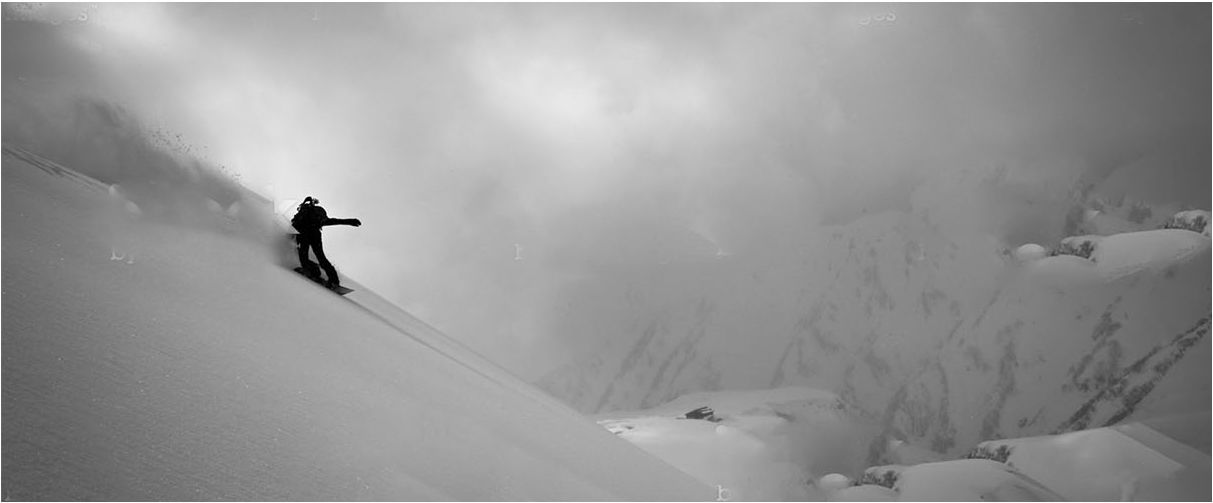
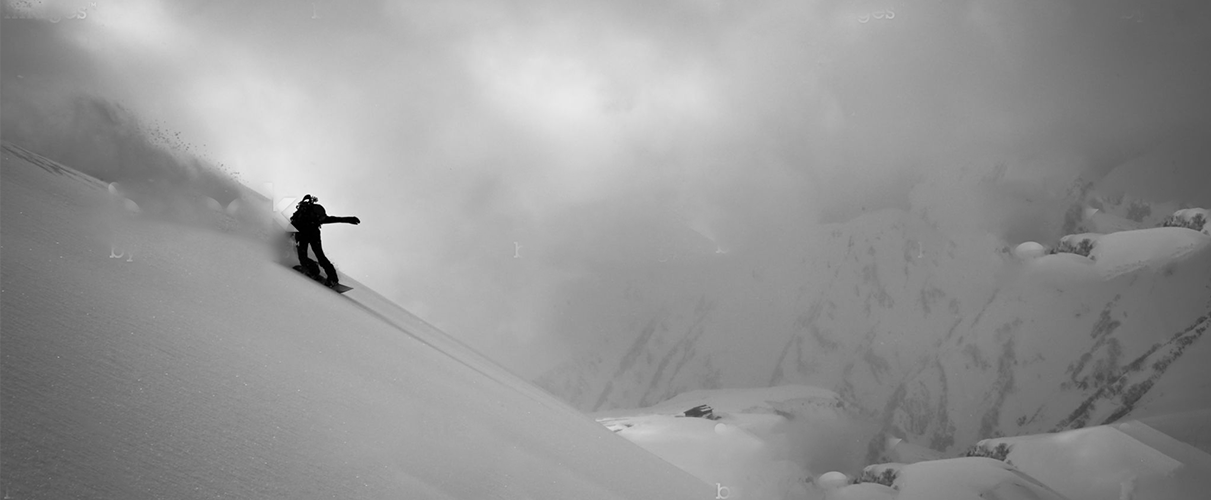
fix image

diff --git a/bootstrap.html b/bootstrap.html
@@ -47,10 +47,10 @@
 		    </ul>
 		  </div>
 		</nav>
-		<div class="banner">
-			<img src="images/banner.png" class="img-fluid">
-			<div class="banner__content text-center">
-				<p class="banner__content__title">WHY JAPAN IS WINTER ?</p>
+		<div class="banner w-100">
+			<!-- <img src="images/banner.png" class="img-fluid"> -->
+			<div class="banner__content text-center w-100">
+				<p class="banner__content__title">WHY JAPAN IN WINTER ?</p>
 				<div class="d-flex justify-content-center">
 					<button class="banner__button" onclick="openColorBox()"><img src="images/icon_play.png" class="banner__content__img"></button>
 				</div>
@@ -61,12 +61,12 @@
 				<nav aria-label="breadcrumb">
 				  <ol class="breadcrumb bg-white">
 				    <li class="breadcrumb-item"><a class="text-muted" href="#">Top</a></li>
-				    <li class="breadcrumb-item text-muted breadcrumb-item__content" aria-current="page">Why Is Japan Winter</li>
+				    <li class="breadcrumb-item text-muted breadcrumb-item__content" aria-current="page">Why Japan In Winter</li>
 				  </ol>
 				</nav>
 			</div>
 			<div class="row">
-				<div class="col-lg-8 col-md-8 mx-auto mt-4">
+				<div class="col-lg-9 col-md-9 mx-auto mt-4">
 					<p class="content__title content__title--intro">
 						Lorem ipsum dolor sit amet, consectetur adipisicing elit, sed do eiusmod tempor incididunt ut labore et dolore magna aliqua. Ut enim ad minim veniam, quis nostrud exercitation ullamco laboris nisi ut aliquip ex ea commodo consequat. Duis aute irure dolor in reprehenderit in voluptate velit esse cillum dolore eu fugiat nulla pariatur. Excepteur sint occaecat cupidatat non proident, sunt in culpa qui officia
 					</p>
@@ -84,12 +84,12 @@
 				</div>
 			</div>
 		</div>
-		<div class="w-100 mt-5">
-			<img src="images/content_image_1.png" width="100%" class="img-fluid">
+		<div class="w-100 mt-5 content__bg content__bg--1">
+			<!-- <img src="images/content_image_1.png" width="100%" class="img-fluid"> -->
 		</div>
 		<div class="container">
 			<div class="row">
-				<div class="col-lg-8 col-md-8 mx-auto mt-5">
+				<div class="col-lg-9 col-md-9 mx-auto mt-5">
 					<p class="text-muted mt-4">
 						Lorem ipsum dolor sit amet, consectetur adipisicing elit, sed do eiusmod tempor incididunt ut labore et dolore magna aliqua. Ut enim ad minim veniam, quis nostrud exercitation ullamco laboris nisi ut aliquip ex ea commodo consequat.
 					</p>
@@ -102,18 +102,14 @@
 		<div class="w-100 mt-5">
 			<div id="demo" class="carousel slide" data-ride="carousel" data-interval="3000">
 			  <div class="carousel-inner">
-			    <div class="carousel-item active">
-			      <img src="images/content_image_3.png" width="100%">  
-			    </div>
-			    <div class="carousel-item">
-			      <img src="images/content_image_4.png" width="100%">
-			    </div>
+			    <div class="carousel-item active content__bg content__bg--2"></div>
+			    <div class="carousel-item content__bg content__bg--3"></div>
 			  </div>
 			</div>
 		</div>
 		<div class="container">
 			<div class="row">
-				<div class="col-lg-8 col-md-8 mx-auto mt-5">
+				<div class="col-lg-9 col-md-9 mx-auto mt-5">
 					<p class="text-muted mt-4">
 						Lorem ipsum dolor sit amet, consectetur adipisicing elit, sed do eiusmod tempor incididunt ut labore et dolore magna aliqua. Ut enim ad minim veniam, quis nostrud exercitation ullamco laboris nisi ut aliquip ex ea commodo consequat.
 					</p>
@@ -123,12 +119,11 @@
 				</div>
 			</div>
 		</div>
-		<div class="w-100 mt-5">
-			<img src="images/content_image_2.png" width="100%" class="img-fluid">
+		<div class="w-100 mt-5 content__bg content__bg--4">
 		</div>
 		<div class="container">
 			<div class="row">
-				<div class="col-lg-8 col-md-8 mx-auto mt-5">
+				<div class="col-lg-9 col-md-9 mx-auto mt-5">
 					<p class="text-muted mt-4">
 						Lorem ipsum dolor sit amet, consectetur adipisicing elit, sed do eiusmod tempor incididunt ut labore et dolore magna aliqua. Ut enim ad minim veniam, quis nostrud exercitation ullamco laboris nisi ut aliquip ex ea commodo consequat.
 					</p>
@@ -146,7 +141,7 @@
 				<div class="col-lg-2 col-md-2 col-12 text-md-left text-lg-left text-center align-self-center">
 					<img src="images/logo_footer.png" alt="">
 				</div>
-				<div class="col-lg-8 col-md-8 col-12 align-self-center d-flex justify-content-center pt-4 pb-4">
+				<div class="col-lg-8 col-md-8 col-12 align-self-center d-flex justify-content-center pt-5 pb-5">
 					<a class="btn footer__link" href="#">Privacy Policy</a>
 					<a class="btn footer__link" href="#">Cookie Policy</a>
 					<a class="btn footer__link" href="#">Terms Of Use</a>
@@ -160,7 +155,7 @@
 				</div>
 			</div>
 			<div class="row footer--below">
-				<div class="col-12 text-center align-self-center pb-4 pt-4">
+				<div class="col-12 text-center align-self-center pb-5 pt-5">
 					<p class="footer__link">Copyright &#9400; Japan National Tourism Organization. All Rights Reserved.</p>
 				</div>
 			</div>

diff --git a/mystyle.css b/mystyle.css
@@ -4,11 +4,17 @@ body {
 }
 .banner {
 	position: relative;
+	background-image: url("images/banner.png");
+  	height: 250px;
+  	-webkit-background-size: cover;
+    -moz-background-size: cover;
+    background-size: 100% 100%;
+    background-position: center;
 }
 
 .banner__content {
 	position: absolute;
-	top: 45%;
+	top: 39%;
 	left: 50%;
 	transform: translateY(-50%);
 	transform: translateX(-50%);
@@ -23,8 +29,33 @@ body {
 	content: ">" !important;
 }
 
-.test: {
+.test {
 	color: #3c4d69;
+}
+
+.content__bg {
+	height: 200px;
+	-webkit-background-size: cover;
+    -moz-background-size: cover;
+    background-size: cover;
+    background-position: center;
+}
+
+.content__bg.content__bg--1 {
+	background-image: url("images/content_image_1.png");
+
+}
+
+.content__bg.content__bg--2 {
+	background-image: url("images/content_image_2.png");
+}
+
+.content__bg.content__bg--3 {
+	background-image: url("images/content_image_3.png");
+}
+
+.content__bg.content__bg--4 {
+	background-image: url("images/content_image_4.png");
 }
 
 .content__title {
@@ -61,10 +92,10 @@ body {
 	background: black;
 }
 
-  .carousel-inner img {
-    width: 100%;
-    height: 100%;
-  }
+.carousel-inner img {
+	width: 100%;
+	height: 100%;
+}
 
 @media screen and (min-width: 240px){
 	.banner__content__title {
@@ -78,10 +109,6 @@ body {
 
 	.footer__padding {
 		padding-bottom: 5px;
-	}
-
-	.banner__content {
-		top: 35%;
 	}
 }
 
@@ -103,16 +130,32 @@ body {
 		height: 500px;
 	}
 
+	.banner {
+		height: 250px;
+	}
+
+	.content__bg {
+		height: 200px;
+	}
+
 }
 
 @media all and (min-width: 600px) {
 	.banner__content__title {
-		font-size: 26px;
+		font-size: 25px;
 	}
 
 	.banner__content__img {
 		width: 60px;
 		height: 100%;
+	}
+
+	.banner {
+		height: 400px;
+	}
+
+	.content__bg {
+		height: 300px;
 	}
 
 }
@@ -126,15 +169,31 @@ body {
 		width: 72px;
 		height: 100%;
 	}
+
+	.banner {
+		height: 550px;
+	}
+
+	.content__bg {
+		height: 400px;
+	}
 }
 
 @media all and (min-width: 1280px) {
 	.banner__content__title {
-		font-size: 36px;
+		font-size: 50px;
 	}
 
 	.banner__content__img {
 		width: 84px;
 		height: 100%;
+	}
+
+	.banner {
+		height: 700px;
+	}
+
+	.content__bg {
+		height: 500px;
 	}
 }
